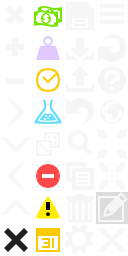
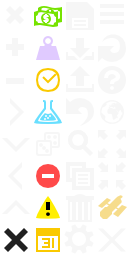
Add Mission Profile section

Changed region(s): [[0.75, 0.75, 1.0, 0.875]]

diff --git a/index.html b/index.html
@@ -38,11 +38,11 @@
 				<div class="baritem"><a href="#messages" class="togglewarnings"><img src="images/cleardot.gif" class="icon warning" alt="warn" /><span class="warning">3</span></a></div>
 			</div>
 			<ul id="summary">
-				<li class="baritem"><a href="#summaryext" class="togglesuccess"><img src="images/cleardot.gif" class="icon success" /><span class="success">0%</span></a></li>
+				<li class="baritem"><a href="#summaryext" class="togglesuccess"><img src="images/cleardot.gif" class="icon success" /><span class="success">90%</span></a></li>
 				<li class="baritem"><a href="#summaryext" class="toggletime"><img src="images/cleardot.gif" class="icon time" /><span class="time">18 months</span></a></li>
-				<li class="baritem"><a href="#summaryext" class="togglecost"><img src="images/cleardot.gif" class="icon cost" /><span class="cost">&pound;0m</span></a></li>
-				<li class="baritem"><a href="#summaryext" class="togglemass"><img src="images/cleardot.gif" class="icon mass" /><span class="mass">0 kg</span></a></li>
-				<li class="baritem"><a href="#summaryext" class="togglescience"><img src="images/cleardot.gif" class="icon science" /><span class="science">0%</span></a></li>
+				<li class="baritem"><a href="#summaryext" class="togglecost"><img src="images/cleardot.gif" class="icon cost" /><span class="cost">&pound;1.7Bn</span></a></li>
+				<li class="baritem"><a href="#summaryext" class="togglemass"><img src="images/cleardot.gif" class="icon mass" /><span class="mass">500 kg</span></a></li>
+				<li class="baritem"><a href="#summaryext" class="togglescience"><img src="images/cleardot.gif" class="icon science" /><span class="science">75%</span></a></li>
 			</ul>
 		</div>
 		<div id="messages" class="dropdown fullwidth">
@@ -69,17 +69,17 @@
 			<ul>
 				<li>
 					<div class="padded">
-						<h3 class="success"><img src="images/cleardot.gif" class="icon success" /> Probability of success <span class="value">0%</span></h3>
+						<h3 class="success"><img src="images/cleardot.gif" class="icon success" /> Probability of success <span class="value">90%</span></h3>
 						<ul class="summary">
-							<li>Launch site: <span class="value success">0%</span></li>
-							<li>Launch vehicle: <span class="value success">0%</span></li>
-							<li>Deployment: <span class="value success">0%</span></li>
-							<li>Cooling system: <span class="value success">0%</span></li>
-							<li>Instruments: <span class="value success">0%</span></li>
+							<li>Launch site: <span class="value success">98%</span></li>
+							<li>Launch vehicle: <span class="value success">98%</span></li>
+							<li>Deployment: <span class="value success">95%</span></li>
+							<li>Cooling system: <span class="value success">95%</span></li>
+							<li>Instruments: <span class="value success">99%</span></li>
 							<li>Mission: 
 								<ul>
-									<li>Some results: <span class="value success">0%</span></li>
-									<li>All results: <span class="value success">0%</span></li>
+									<li>Some results: <span class="value success">99%</span></li>
+									<li>All results: <span class="value success">99%</span></li>
 								</ul>
 							</li>
 						</ul>
@@ -127,26 +127,35 @@
 					</div>
 				</li><li>
 					<div class="padded">
-						<h3 class="mass"><img src="images/cleardot.gif" class="icon mass" /> Mass budget <span class="value">0 kg</span></h3>
+						<h3 class="mass"><img src="images/cleardot.gif" class="icon mass" /> Mass budget <span class="value">500 kg</span></h3>
 						<ul class="summary">
-							<li>Satellite structure: <span class="value mass">0 kg</span></li>
-							<li>Mirror: <span class="value mass">0 kg</span></li>
-							<li>Cooling system (total): <span class="value mass">0 kg</span>
+							<li>Satellite structure: <span class="value mass">200 kg</span></li>
+							<li>Mirror: <span class="value mass">200 kg</span></li>
+							<li>Cooling system (total): <span class="value mass">50 kg</span>
 								<ul>
 									<li>Passive cooling: <span class="value mass">0 kg</span></li>
 									<li>Cryogenic cooling: <span class="value mass">0 kg</span></li>
 									<li>Active cooling: <span class="value mass">0 kg</span></li>
 								</ul>
 							</li>
-							<li>All instruments: <span class="value mass">0 kg</span></li>
+							<li>All instruments: <span class="value mass">50 kg</span></li>
 						</ul>
 					</div>
 				</li><li>
 					<div class="padded">
-						<h3 class="science"><img src="images/cleardot.gif" class="icon science" /> Mission targets <span class="value">0%</span></h3>
+						<h3 class="science"><img src="images/cleardot.gif" class="icon science" /> Mission targets <span class="value">75%</span></h3>
 						<ul class="summary">
-							<li>Mission target 1: <span class="value science">Fail<!--&#x2714; &#x2718--></span></li>
-							<li>Mission target 2: <span class="value science">Fail</span></li>
+							<li>Mission target 1: <span class="value science">50%<!--&#x2714; &#x2718--></span></li>
+							<li>Mission target 2: <span class="value science">100%</span></li>
+						</ul>
+					</div>
+				</li><li>
+					<div class="padded">
+						<h3 class="profile"><img src="images/cleardot.gif" class="icon profile" /> Mission profile</h3>
+						<ul class="summary">
+							<li>Launch site: <span class="value profile">Kennedy Space Center</span></li>
+							<li>Launch vehicle: <span class="value profile">Delta IV</span></li>
+							<li>Number of instruments: <span class="value profile">2</span></li>
 						</ul>
 					</div>
 				</li>

diff --git a/css/style.css b/css/style.css
@@ -200,6 +200,7 @@ img.success { background-position: -1.5em -6em; }
 img.error { background-position: -1.5em -7.5em; }
 img.warning { background-position: -1.5em -9em; }
 img.globe { background-position: -4.5em -4.5em; }
+img.profile { background-position: -4.5em -9em; }
 img.options { background-position: -3em -10.5em; }
 img.save { background-position: -3em -1.5em; }
 img.load { background-position: -3em -3em; }
@@ -214,6 +215,7 @@ img.close { background-position: 0em -10.5em; }
 .time { color: #fac900; }
 .mass { color: #e0caff; }
 .science { color: #69dfff; }
+.profile { color: #f6dc8c; }
 .error { color: #ff4a4a; }
 .warning { color: #ffee00; }
 
